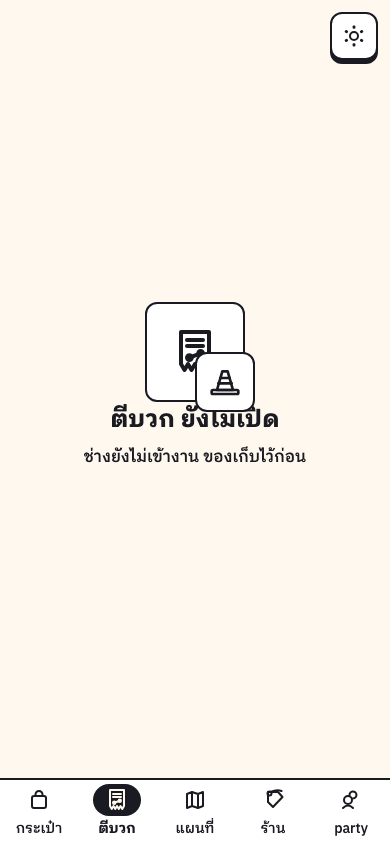
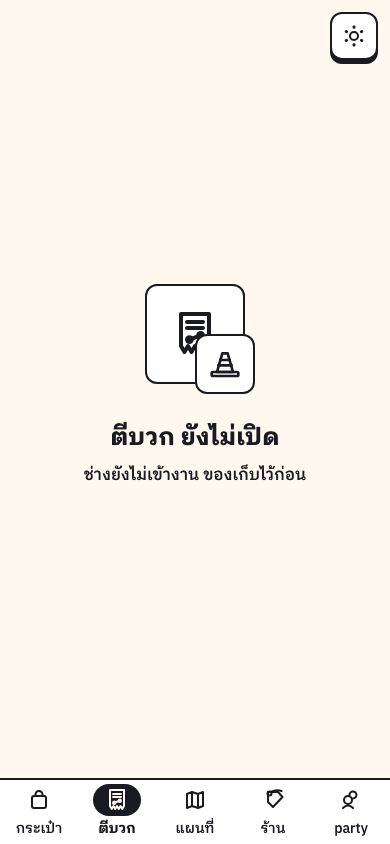
P2-X69: name field error border wins over focus, focus ring token; coming-soon title clears the plate

Changed region(s): [[0.2154, 0.3697, 0.8, 0.5853], [0.5846, 0.3389, 0.6462, 0.3697], [0.3692, 0.3389, 0.4, 0.3697]]

diff --git a/apps/client/src/app.css b/apps/client/src/app.css
@@ -1078,11 +1078,22 @@ body {
   color: #1a1a22; /* ink.900 */
   font: inherit;
   font-size: 16px;
+  outline: none; /* V-F10-07 round 2: replaced by the focus-visible ring below, never the
+    browser's own blue ring — same rule `.login-email-input`/`.login-password-input` already follow */
+}
+
+.name-field-input:focus {
+  border-color: #1a1a22; /* ink.900, border colour itself never changes on focus */
+  box-shadow: 0 0 0 3px #ffcc00; /* accent.signal, same flat-ring language as the login inputs */
 }
 
 /* V-F10-07: the filter-rejected state is a border colour change on the field itself, not only the
-   text underneath it (components.md 16.4's own "ขอบช่องเปลี่ยนเป็น state.danger 2px"). */
-.name-field-input-error {
+   text underneath it (components.md 16.4's own "ขอบช่องเปลี่ยนเป็น state.danger 2px"). Repeated with
+   `:focus` at equal specificity to `.name-field-input:focus` and declared after it, so error always
+   wins the border colour even while the field is still focused — only the outer accent.signal ring
+   stays from the focus state (round 2, V-F10-07: "เห็นขอบแดงพร้อมวงแหวนเหลืองรอบนอก ไม่มีสีฟ้า"). */
+.name-field-input-error,
+.name-field-input-error:focus {
   border-color: #cc2222; /* state.danger */
 }
 
@@ -1928,10 +1939,14 @@ body {
   height: 100%;
 }
 
-/* V-F10-09: 24 px from the badge plate's own bottom edge, which sits 12 px below `.cs-plate-main`'s
-   own box (`.cs-plate-badge`'s `bottom: -12px`) — so 24 + 12 = 36 px measured from the main plate's
-   flow-bottom, where this margin actually starts. */
-.cs-title {
+/* V-F10-09 round 2: `#hud h1` (above, ID + element = higher specificity than a bare class) sets the
+   `margin` shorthand, which zeroes margin-top — a plain `.cs-title { margin-top: 36px }` here was
+   always losing to it regardless of source order, so round 1's fix never actually rendered. Selector
+   raised to `#hud h1.cs-title` (ID + class + element) to win outright. 24 px from the badge plate's
+   own bottom edge, which sits 12 px below `.cs-plate-main`'s own box (`.cs-plate-badge`'s
+   `bottom: -12px`) — so 24 + 12 = 36 px measured from the main plate's flow-bottom, where this
+   margin actually starts. */
+#hud h1.cs-title {
   margin-top: 36px;
 }
 

diff --git a/studio/phases/phase-2/board.md b/studio/phases/phase-2/board.md
@@ -445,7 +445,8 @@ Plan review: `studio/phases/phase-2/plan-review-game-director.md`, `plan-review-
 | P2-X66 | F10 | (copy gate T20 F-01b) เพิ่มการตรวจว่าทุก key ที่ client เรียกผ่าน getCopyText มีอยู่ใน copy.th.json (lint:copy exit 0 ทั้งที่ story.headerLabel ไม่มี) · ตัวตรวจต้องล้มถ้ามี key หาย | fix | tech-lead | P2-F10-T20 | `tools/copy-lint/`, `apps/client/src/copy/` (เฉพาะ test) | DONE | กฎ S15 ใน copy-lint (TypeScript checker สแกน getCopyText/formatCopyText/getCopyEntry ใน apps/client/src) · พิสูจน์ว่าจับ story.headerLabel ได้ · copy-lint 122 test |
 | P2-X67 | F10 | (copy gate T20 F-01b, N-04) e2e ตรวจไม่มีข้อความรูปแบบ area.key ดิบบนจอ F10 ทุกจอ · ถ่ายภาพ 06, 09, 10, 11, 18 (และจอที่ visual gate ระบุ) ใหม่ที่ 360/390 หลัง X64/X65 · (visual gate V-04) ถ่ายหลัง img.complete ทุกภาพ + เพิ่มภาพ story slide 2, 3 · ถ่ายจอ 05 ใหม่ (ปุ่ม forgot เปลี่ยน) · ถ่ายทุกจอที่ X65/X68 แตะ · capture script ต้องเขียน capture-results.json ให้ผ่าน prettier (หรือรัน prettier หลังเขียน) เพราะ root lint ตกจากไฟล์นี้ · (product gate ไม่บล็อก F10-PM-01/02) e2e assert nav_tab_opened/coming_soon_viewed ลง telemetry storage จริง และ e2e กดลิงก์ข้ามเรื่องแล้ว story_skipped ถูกบันทึก · ตรวจและทำให้ qa/tests/e2e/f02-map-network-resilience.spec.ts TC-MAP-05 (ios-safari) เสถียร (ตกใน run ของ X68 ทั้งก่อนและหลังแก้) โดยไม่ลดสิ่งที่ตรวจ | fix | qa-tester | P2-X64, P2-X65, P2-X68 | `qa/tests/e2e/`, `qa/reports/F10/` | DONE | e2e no-raw-copy-key 38/38, telemetry nav/story 10/10, capture รอภาพโหลด + slide 2/3 + prettier, TC-MAP-05 expect.poll (20/20 ซ้ำ 5 รอบ) · e2e ทั้งชุด 218/218 · lint 0 |
 | P2-F10-T20 | F10 | Content gate (copy) F10 | review-gate | narrative-designer | P2-F10-T19, P2-F10-T11, P2-F10-T03, P2-X64, P2-X65, P2-X66, P2-X67 | `design/reviews/F10-copy-gate.md` | DONE | รอบ 1 NEEDS_CHANGES → รอบ 2 PASS · `design/reviews/F10-copy-gate.md` |
-| P2-F10-T21 | F10 | Content gate (visual) F10 | review-gate | art-director | P2-F10-T19, P2-F10-T09, P2-F10-T13, P2-X63, P2-X65, P2-X68, P2-X67 | `art/reviews/F10-visual-gate.md` | BLOCKED | รอบ 2 NEEDS_CHANGES ครั้งที่สอง (ปิด 8/10 · เหลือ V-F10-07 ขอบช่องชื่อ error เป็นสีฟ้า, V-F10-09 plate กรวยทับหัวข้อ) → escalate ถึงคน Q-F10-2 |
+| P2-X69 | F10 | (visual gate T21 รอบ 2, D-163) V-F10-07 ตอน error ขอบช่องชื่อเป็น state.danger และชนะ :focus · focus ของทุกช่องกรอกใช้ outline:none + วงแหวน 3 px accent.signal (ไม่ใช่สีฟ้า browser) · V-F10-09 .cs-title ห่างขอบล่าง plate หลัก ≥ 36 px (ห่าง plate กรวย ≥ 24 px) ไม่ทับสระบน · ถ่ายภาพ 07 และ 13–15 ใหม่ที่ 360/390 | fix | gameplay-programmer | P2-F10-T21 | `apps/client/` (ยกเว้น apps/client/package.json), `qa/reports/F10/screens/` (เฉพาะภาพ 07, 13, 14, 15 และ capture-results.json) | DONE | name-field focus ring + error ชนะ :focus, #hud h1.cs-title margin ชนะ #hud h1 · ภาพ 07, 13–15 ใหม่ · lint 0, unit 1095, e2e 218/218 |
+| P2-F10-T21 | F10 | Content gate (visual) F10 | review-gate | art-director | P2-F10-T19, P2-F10-T09, P2-F10-T13, P2-X63, P2-X65, P2-X68, P2-X67, P2-X69 | `art/reviews/F10-visual-gate.md` | IN_PROGRESS | รอบ 2 NEEDS_CHANGES → คนเลือกแก้อีก 1 รอบ (D-163) · รอบ 3 ตรวจเฉพาะภาพ 07 และ 13–15 |
 | P2-F10-T22 | F10 | QA gate F10 | review-gate | qa-tester | P2-F10-T18, P2-F10-T19 | `qa/reports/F10-qa-gate.md`, `qa/bugs.md` | DONE | verdict PASS · `qa/reports/F10-qa-gate.md` · acceptance 13/13 · test 3519, e2e 170/170 · PARTIAL/GAP 37 ไม่บล็อก (ยกไป) |
 | P2-F10-T23 | F10 | Design gate F10 | review-gate | game-director | P2-F10-T22, P2-F10-T20, P2-F10-T21, P2-F10-T10, P2-H62, P2-H69 | `design/reviews/F10-design-gate.md` | TODO | — |
 | P2-F10-T24 | F10 | Product gate F10 | review-gate | product-manager | P2-F10-T22, P2-F10-T05 | `product/reviews/F10-product-gate.md` | DONE | verdict PASS · `product/reviews/F10-product-gate.md` · คำสั่งคน 7/7 MET · event 8 + funnel 6 ตรง 3 ที่ ไม่มี PII |

diff --git a/studio/questions/open-questions.md b/studio/questions/open-questions.md
@@ -61,4 +61,4 @@
 - **Q-P2-14** (ตอบแล้ว 2026-09-30: (ก) fix รอบแคบ, D-140 · เดิมบล็อก · escalation ตาม protocol ข้อ 6 / กฎสลับ 12) visual gate F04–F06 (P2-F06-T23) ได้ NEEDS_CHANGES ครั้งที่สอง · รอบ 2 ปิด V-31..V-34, V-36 แล้ว เหลือ V-30 5 จุด (R2-1 toast ทุกตัวเยื้องขวาและข้อความถูกตัด รวมคำเตือน HP ต่ำ, R2-2 แถบ Grace ถูกแถว HP บัง, R2-3 ปุ่มหลักจอสรุปไม่เป็นสีเหลือง, R2-4 ปุ่มตามตัวเป็นปุ่มดิบของเบราว์เซอร์, R2-5 ตัวอักษร pill 14 px) · ไม่แตะ non-negotiable · ตัวเลือก: (ก) แนะนำ: fix รอบแคบ R2-1..R2-5 แล้วตรวจเฉพาะจอใน §7.9 ครั้งเดียว (ข) บังคับเฉพาะ R2-1, R2-2 ส่วน R2-3..R2-5 เป็นหนี้ Phase 3 (ค) ให้ผ่านตามสภาพ (ไม่แนะนำ) · รายงาน art/reviews/F04-F06-visual-gate.md §7
 - **Q-F10-1** (ไม่บล็อก · จาก P2-PLAN-F10) roadmap ใช้เลข F10 แล้วสำหรับ "Level, Stat และอุปกรณ์" (Phase 4) · feature account shell จะใช้ชื่อถาวรแบบไหน: (ก) คง P2-F10 แล้วเปลี่ยนเลขของ Phase 4 ภายหลัง (ข) เปลี่ยนเป็น F06b (ค) เลขใหม่ต่อท้าย roadmap · ระหว่างรอใช้ P2-F10 ทุกไฟล์ชื่อ F10-account-shell
 - **Q-P2-10 เพิ่มเติม (2026-10-01, P2-F10-T01)** อนุมัติถ้อยคำแก้ GDD เรื่อง password ใน `design/reviews/gdd-wording-D-145.md` ส่วน A และจะรวมส่วน B (แถวนาที 0–1 ให้ตรง D-149) ในรอบเดียวกันไหม (D-153) · ไม่บล็อก · ทีมแนะนำ (ก) ก่อนปิด Phase 2
-- **Q-F10-2** (บล็อก · visual gate F10 NEEDS_CHANGES ครั้งที่สอง, protocol ข้อ 6) เหลือ 2 จุด CSS: ขอบช่องชื่อตอนผิดเป็นสีฟ้าแทนแดง (V-F10-07) และกล่องกรวยบนจอ "ยังไม่เปิด" บังหัวข้อ (V-F10-09) · (ก) fix อีก 1 รอบ ตรวจเฉพาะภาพ 07, 13–15 (ทีมแนะนำ) (ข) ปิด gate แล้วยกเป็นงานแยก
+- **Q-F10-2** (ตอบแล้ว 2026-10-01: (ก) fix อีก 1 รอบ, D-163 · เดิมบล็อก · visual gate F10 NEEDS_CHANGES ครั้งที่สอง, protocol ข้อ 6) เหลือ 2 จุด CSS: ขอบช่องชื่อตอนผิดเป็นสีฟ้าแทนแดง (V-F10-07) และกล่องกรวยบนจอ "ยังไม่เปิด" บังหัวข้อ (V-F10-09) · (ก) fix อีก 1 รอบ ตรวจเฉพาะภาพ 07, 13–15 (ทีมแนะนำ) (ข) ปิด gate แล้วยกเป็นงานแยก

diff --git a/studio/decisions/decision-log.md b/studio/decisions/decision-log.md
@@ -170,3 +170,4 @@ append-only · สถานะ: PROPOSED → ACCEPTED / REJECTED (โดย auth
 | D-160 | 2026-10-01 | P2-F10-T18 | ลำดับ zIndex: toast 30 < navScreen 35 < nav 38 < popupModal 40 (tier ใหม่เป็น token ชื่อ) | tech-lead | uiux-designer | ACCEPTED | P2-X61 |
 | D-161 | 2026-10-01 | P2-F10-T18 (N-01) | ผูก browser baseline (Chrome 87+, Safari 14.1+ ที่มี Intl.Segmenter) กับ Vite build.target / browserslist ให้ build ล้มถ้า target ต่ำกว่า | tech-lead | tech-lead | PROPOSED | — (ไม่บล็อก F10) |
 | D-162 | 2026-10-01 | P2-F10-T20 | จอ forgot password ในโหมดทดสอบใช้ปุ่ม "เข้าด้วยอีเมลนี้" แทน "ขอตั้งรหัสใหม่" (ไม่สัญญาสิ่งที่ไม่เกิด) · ลบ account.registerDone และ account.forgotResult | narrative-designer | narrative-designer | ACCEPTED | P2-X64 |
+| D-163 | 2026-10-01 | Q-F10-2 (visual gate F10 NEEDS_CHANGES ครั้งที่สอง) | คนเลือก (ก): แก้อีก 1 รอบสำหรับ V-F10-07 และ V-F10-09 แล้ว art-director ตรวจเฉพาะภาพ 07 และ 13–15 | HUMAN | HUMAN | ACCEPTED | P2-X69, P2-F10-T21 |

diff --git a/studio/phases/phase-2/ledger.md b/studio/phases/phase-2/ledger.md
@@ -295,3 +295,5 @@ Run 2 closed — 2026-09-30 21:56 · สถานะ COMPLETE — AGENT SIDE, WA
 | 272 | F11 | P2-F10-T20 รอบ 2 | narrative-designer | 15:02:31 | 15:06:06 | PASS — F-01..F-06 + F-01b ปิด · N-01 (ป้ายการ์ด class ตัดบรรทัด) ยกไป backlog |
 | 273 | F11 | P2-F10-T21 รอบ 2 | art-director | 15:02:31 | 15:08:22 | NEEDS_CHANGES ครั้งที่ 2 — ปิด 8/10 · V-07, V-09 ค้าง · safety stop: ถามคน Q-F10-2 |
 | 274 | F11 | — | user | 15:08:22 | — | รอคำตอบ Q-F10-2 |
+| 275 | F12 | Q-F10-2 | user | — | 15:41:13 | คนตอบ (ก) fix อีก 1 รอบ (D-163) · X69 เริ่ม |
+| 276 | F12 | P2-X69 | gameplay-programmer | 15:41:13 | 15:49:35 | DONE — CSS 2 จุด · e2e 218/218 · T21 รอบ 3 เริ่ม |
